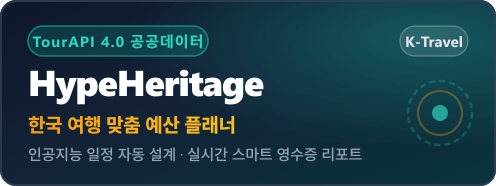
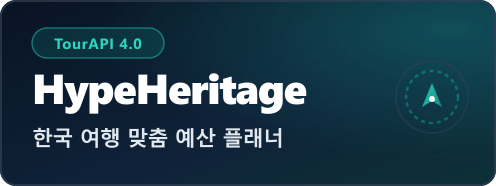
refactor: redesign thumbnail with minimal text removing unverified slogans

diff --git a/scripts/generate-thumbnail.ts b/scripts/generate-thumbnail.ts
@@ -6,80 +6,67 @@ async function generateThumbnails() {
   const width = 248;
   const height = 93;
 
-  // 248 x 93 SVG 템플릿
-  // 심미성 높은 모던 다크 틸 그라데이션 + HypeHeritage 브랜딩 + 한국관광공사 연동 뱃지
+  // 글자를 최소화하고 핵심 브랜드와 정체성만 담은 미니멀 248x93 배너
   const svg = `
   <svg width="${width}" height="${height}" viewBox="0 0 ${width} ${height}" xmlns="http://www.w3.org/2000/svg">
     <defs>
-      <!-- 배경 그라데이션 -->
+      <!-- 모던 다크 블루/틸 그라데이션 -->
       <linearGradient id="bgGrad" x1="0%" y1="0%" x2="100%" y2="100%">
-        <stop offset="0%" stop-color="#0f172a" />
-        <stop offset="50%" stop-color="#132338" />
-        <stop offset="100%" stop-color="#09353b" />
+        <stop offset="0%" stop-color="#091424" />
+        <stop offset="60%" stop-color="#0f2238" />
+        <stop offset="100%" stop-color="#0d3138" />
       </linearGradient>
 
-      <!-- 골드 텍스트 그라데이션 -->
-      <linearGradient id="goldGrad" x1="0%" y1="0%" x2="100%" y2="0%">
-        <stop offset="0%" stop-color="#f59e0b" />
-        <stop offset="100%" stop-color="#fbbf24" />
-      </linearGradient>
-
-      <!-- 틸 하이라이트 글로우 -->
-      <radialGradient id="glow" cx="85%" cy="20%" r="60%">
-        <stop offset="0%" stop-color="#14b8a6" stop-opacity="0.35" />
+      <!-- 틸 하이라이트 원형 글로우 -->
+      <radialGradient id="tealGlow" cx="90%" cy="15%" r="70%">
+        <stop offset="0%" stop-color="#14b8a6" stop-opacity="0.30" />
         <stop offset="100%" stop-color="#14b8a6" stop-opacity="0" />
       </radialGradient>
+
+      <!-- 미니멀 로고 심볼 그라데이션 -->
+      <linearGradient id="symbolGrad" x1="0%" y1="0%" x2="100%" y2="100%">
+        <stop offset="0%" stop-color="#2dd4bf" />
+        <stop offset="100%" stop-color="#0d9488" />
+      </linearGradient>
     </defs>
 
-    <!-- 배경 사각형 -->
+    <!-- 배경 -->
     <rect width="${width}" height="${height}" fill="url(#bgGrad)" rx="8" />
-    <rect width="${width}" height="${height}" fill="url(#glow)" rx="8" />
+    <rect width="${width}" height="${height}" fill="url(#tealGlow)" rx="8" />
 
-    <!-- 테두리 라인 -->
-    <rect x="0.5" y="0.5" width="${width - 1}" height="${height - 1}" rx="7.5" fill="none" stroke="#334155" stroke-width="1" stroke-opacity="0.8" />
+    <!-- 세련된 외곽 테두리 -->
+    <rect x="0.5" y="0.5" width="${width - 1}" height="${height - 1}" rx="7.5" fill="none" stroke="#334155" stroke-width="1" stroke-opacity="0.7" />
 
-    <!-- 좌측 상단 브랜드 태그 뱃지 -->
-    <g transform="translate(14, 13)">
-      <rect width="90" height="15" rx="7.5" fill="#0d9488" fill-opacity="0.25" stroke="#14b8a6" stroke-width="0.8" stroke-opacity="0.6" />
-      <text x="45" y="10.5" font-family="-apple-system, BlinkMacSystemFont, 'Segoe UI', 'Pretendard', sans-serif" font-size="7.5" font-weight="800" fill="#2dd4bf" text-anchor="middle" letter-spacing="0.5">
-        TourAPI 4.0 공공데이터
+    <!-- 좌측 상단: 공공데이터 TourAPI 미니멀 뱃지 -->
+    <g transform="translate(16, 14)">
+      <rect width="66" height="15" rx="7.5" fill="#0d9488" fill-opacity="0.2" stroke="#14b8a6" stroke-width="0.7" stroke-opacity="0.6" />
+      <text x="33" y="10.5" font-family="-apple-system, BlinkMacSystemFont, 'Segoe UI', 'Pretendard', sans-serif" font-size="7.5" font-weight="700" fill="#2dd4bf" text-anchor="middle" letter-spacing="0.3">
+        TourAPI 4.0
       </text>
     </g>
 
-    <!-- 우측 상단 국가대표 K-Travel 마크 -->
-    <g transform="translate(${width - 48}, 13)">
-      <rect width="34" height="15" rx="7.5" fill="#ffffff" fill-opacity="0.1" stroke="#ffffff" stroke-width="0.6" stroke-opacity="0.3" />
-      <text x="17" y="10.5" font-family="-apple-system, BlinkMacSystemFont, 'Segoe UI', 'Pretendard', sans-serif" font-size="7.5" font-weight="700" fill="#e2e8f0" text-anchor="middle">
-        K-Travel
-      </text>
-    </g>
-
-    <!-- 메인 로고 영문 타이틀 -->
-    <g transform="translate(14, 48)">
-      <text font-family="-apple-system, BlinkMacSystemFont, 'Segoe UI', 'Pretendard', sans-serif" font-size="18" font-weight="900" fill="#ffffff" letter-spacing="-0.5">
+    <!-- 중앙/좌측 메인 브랜드명: HypeHeritage -->
+    <g transform="translate(16, 52)">
+      <text font-family="-apple-system, BlinkMacSystemFont, 'Segoe UI', 'Pretendard', sans-serif" font-size="21" font-weight="900" fill="#ffffff" letter-spacing="-0.6">
         HypeHeritage
       </text>
     </g>
 
-    <!-- 서브 카피 (한국어 및 주요 기능) -->
-    <g transform="translate(14, 66)">
-      <text font-family="-apple-system, BlinkMacSystemFont, 'Segoe UI', 'Pretendard', sans-serif" font-size="9.5" font-weight="800" fill="url(#goldGrad)" letter-spacing="-0.2">
+    <!-- 하단 핵심 제품명: 한국 여행 맞춤 예산 플래너 -->
+    <g transform="translate(16, 73)">
+      <text font-family="-apple-system, BlinkMacSystemFont, 'Segoe UI', 'Pretendard', sans-serif" font-size="10.5" font-weight="700" fill="#e2e8f0" letter-spacing="-0.3">
         한국 여행 맞춤 예산 플래너
       </text>
     </g>
 
-    <!-- 하단 설명/슬로건 -->
-    <g transform="translate(14, 80)">
-      <text font-family="-apple-system, BlinkMacSystemFont, 'Segoe UI', 'Pretendard', sans-serif" font-size="7.5" font-weight="500" fill="#94a3b8" letter-spacing="-0.1">
-        인공지능 일정 자동 설계 · 실시간 스마트 영수증 리포트
-      </text>
-    </g>
-
-    <!-- 우측 장식 원형 그래픽 (한국의 삼태극/방위 느낌 모티브 미니멀 그래픽) -->
-    <g transform="translate(${width - 28}, ${height / 2 + 10})">
-      <circle r="16" fill="none" stroke="#14b8a6" stroke-width="1.2" stroke-opacity="0.3" stroke-dasharray="3 2" />
-      <circle r="11" fill="none" stroke="#f59e0b" stroke-width="1" stroke-opacity="0.35" />
-      <circle r="4" fill="#2dd4bf" fill-opacity="0.7" />
+    <!-- 우측 미니멀 심볼 그래픽 (한국 여행/예산 핀 모티브) -->
+    <g transform="translate(${width - 32}, ${height / 2 + 2})">
+      <!-- 외곽 서클 링 -->
+      <circle r="18" fill="none" stroke="#334155" stroke-width="1" stroke-opacity="0.5" />
+      <circle r="13" fill="none" stroke="#14b8a6" stroke-width="1.2" stroke-opacity="0.4" stroke-dasharray="2 2" />
+      <!-- 위치/나침반 모티브 핀 -->
+      <path d="M0 -7 L5 5 L0 2 L-5 5 Z" fill="url(#symbolGrad)" opacity="0.9" />
+      <circle cx="0" cy="1" r="1.5" fill="#ffffff" />
     </g>
   </svg>
   `;
@@ -91,7 +78,7 @@ async function generateThumbnails() {
 
   const svgBuffer = Buffer.from(svg);
 
-  // 1. 표준 규격 (248 x 93 px)
+  // 1. 표준 규격 (248 x 93 px) PNG
   const thumbPath = path.join(outDir, "hypeheritage_thumbnail_248x93.png");
   const rootThumbPath = path.resolve(__dirname, "../hypeheritage_thumbnail_248x93.png");
 
@@ -102,7 +89,19 @@ async function generateThumbnails() {
 
   fs.copyFileSync(thumbPath, rootThumbPath);
 
-  // 2. 고해상도 규격 (496 x 186 px - 레티나 2배수, 혹시 고해상도를 요구할 경우 대비)
+  // 2. JPG 버전 (248 x 93 px)
+  const jpgPath = path.join(outDir, "hypeheritage_thumbnail_248x93.jpg");
+  const rootJpgPath = path.resolve(__dirname, "../hypeheritage_thumbnail_248x93.jpg");
+
+  await sharp(svgBuffer)
+    .resize(width, height)
+    .flatten({ background: "#091424" })
+    .jpeg({ quality: 95 })
+    .toFile(jpgPath);
+
+  fs.copyFileSync(jpgPath, rootJpgPath);
+
+  // 3. 고해상도 규격 (496 x 186 px, 2배수 레티나)
   const thumb2xPath = path.join(outDir, "hypeheritage_thumbnail_496x186.png");
   const rootThumb2xPath = path.resolve(__dirname, "../hypeheritage_thumbnail_496x186.png");
 
@@ -113,19 +112,7 @@ async function generateThumbnails() {
 
   fs.copyFileSync(thumb2xPath, rootThumb2xPath);
 
-  // 3. JPG 버전도 함께 생성 (일부 심사 사이트에서 JPG만 허용하는 경우 대비)
-  const jpgPath = path.join(outDir, "hypeheritage_thumbnail_248x93.jpg");
-  const rootJpgPath = path.resolve(__dirname, "../hypeheritage_thumbnail_248x93.jpg");
-
-  await sharp(svgBuffer)
-    .resize(width, height)
-    .flatten({ background: "#0f172a" })
-    .jpeg({ quality: 95 })
-    .toFile(jpgPath);
-
-  fs.copyFileSync(jpgPath, rootJpgPath);
-
-  console.log("[SUCCESS] 썸네일 이미지 생성 완료:");
+  console.log("[SUCCESS] 최소 텍스트 미니멀 썸네일 재생성 완료:");
   console.log(`- 248x93 PNG: ${rootThumbPath}`);
   console.log(`- 248x93 JPG: ${rootJpgPath}`);
   console.log(`- 496x186 2x PNG: ${rootThumb2xPath}`);
